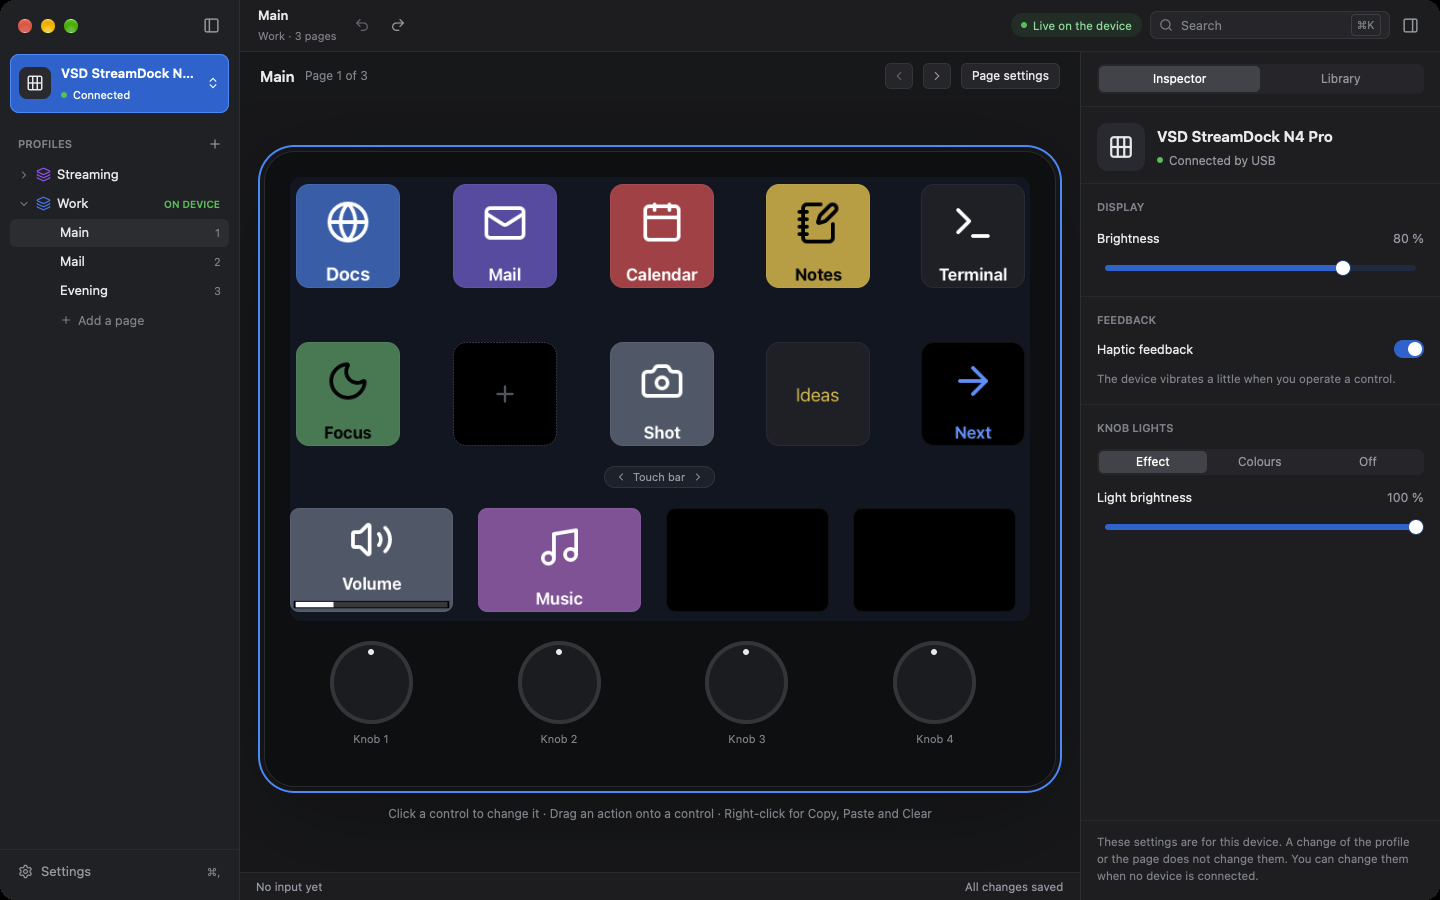
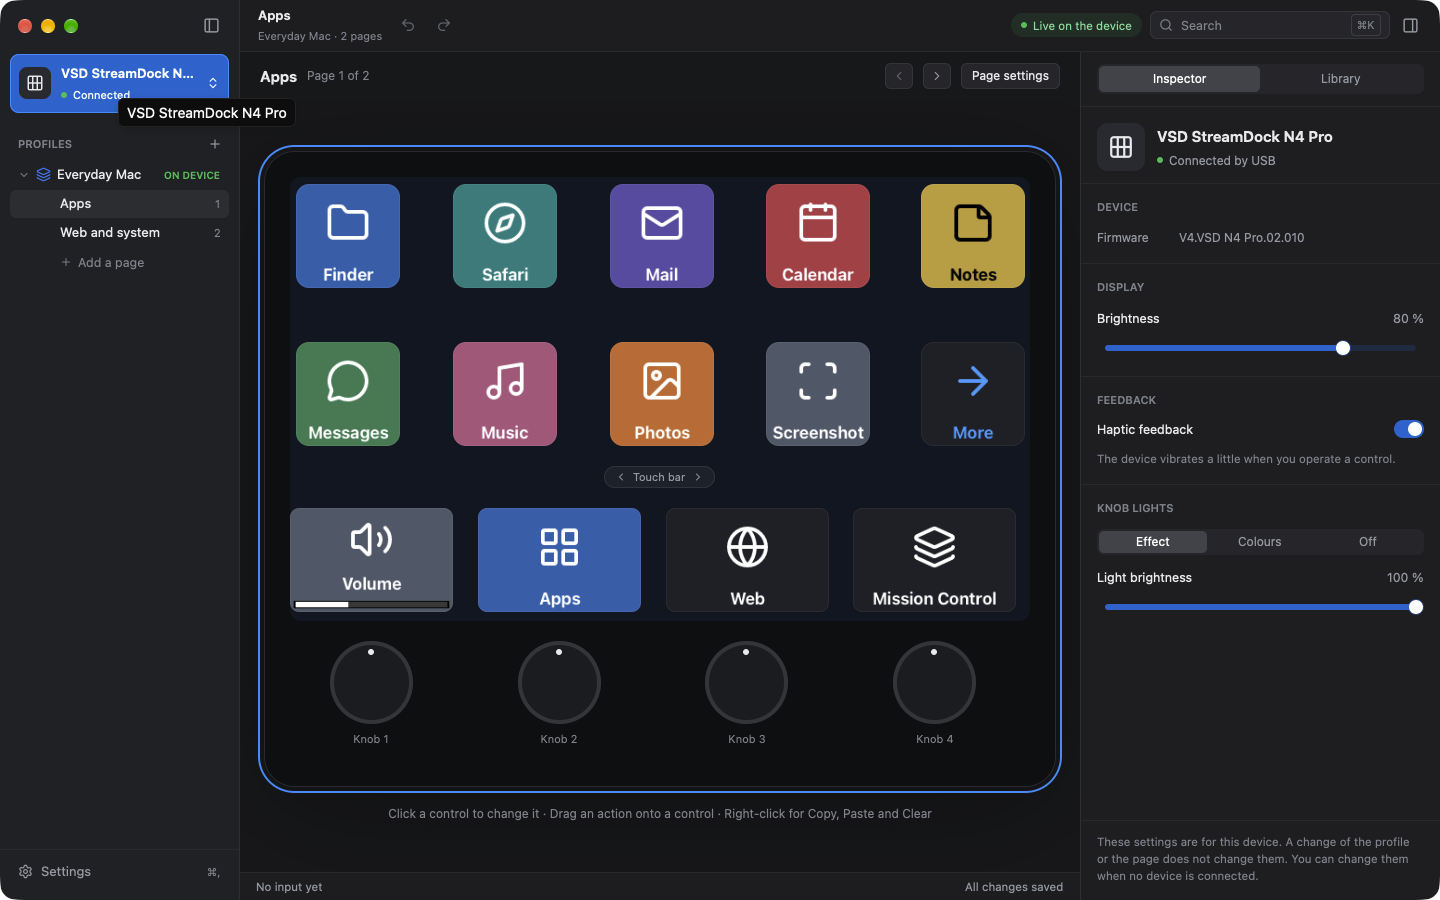
Show the connected device firmware in the inspector (#287)

diff --git a/crates/engine/tests/engine.rs b/crates/engine/tests/engine.rs
@@ -566,13 +566,27 @@ fn a_connection_gives_the_start_sequence_and_each_image() {
     rig.take_events();
     let device = rig.connect();
 
-    assert_eq!(rig.take_events(), [Event::Connected]);
+    assert_eq!(rig.take_events(), [Event::Firmware(None), Event::Connected]);
     assert_full_draw(&sent(&device));
 
     // After the draw, only the keep-alive goes to the device.
     rig.poll_for(Duration::from_secs(25));
     assert_eq!(sent(&device), [op("CONNECT"), op("CONNECT")]);
     assert!(rig.take_events().is_empty());
+}
+
+#[test]
+fn the_firmware_comes_from_the_feature_report_on_each_connection() {
+    let mut rig = Rig::new();
+    rig.take_events();
+    let fake = rig.plug();
+    // The fake selects report 1 by its first byte; the text follows it.
+    fake.borrow_mut().set_feature_report(b"\x01V2.3\0".to_vec());
+    rig.poll_for(Duration::from_secs(2));
+    assert_eq!(
+        rig.take_events(),
+        [Event::Firmware(Some("V2.3".into())), Event::Connected]
+    );
 }
 
 // --- Changes -------------------------------------------------------------------
@@ -720,7 +734,7 @@ fn after_a_disconnection_and_a_new_connection_the_device_shows_the_profile_again
     rig.take_events();
 
     let second = rig.connect();
-    assert_eq!(rig.take_events(), [Event::Connected]);
+    assert_eq!(rig.take_events(), [Event::Firmware(None), Event::Connected]);
     let sent = sent(&second);
     assert_full_draw(&sent);
     assert_color(&shown_at(&sent, KEY_3_SLOT), 2, 2, RED);
@@ -1161,7 +1175,10 @@ fn a_wake_gives_the_start_sequence_and_a_full_draw() {
     rig.engine.poll(POLL_INTERVAL);
 
     // The shell drops its input marks, and gets Connected after the draw.
-    assert_eq!(rig.take_events(), [Event::Disconnected, Event::Connected]);
+    assert_eq!(
+        rig.take_events(),
+        [Event::Disconnected, Event::Firmware(None), Event::Connected]
+    );
     let sent_after = sent(&device);
     assert_eq!(sent_after[0], op("CONNECT"), "the keep-alive first");
     assert_full_draw(&sent_after[1..]);
@@ -1230,7 +1247,10 @@ fn a_device_restart_some_seconds_after_the_wake_also_ends_in_a_full_draw() {
     let second = rig.plug();
     rig.poll_for(Duration::from_secs(2));
 
-    assert_eq!(rig.take_events(), [Event::Disconnected, Event::Connected]);
+    assert_eq!(
+        rig.take_events(),
+        [Event::Disconnected, Event::Firmware(None), Event::Connected]
+    );
     assert_full_draw(&sent(&second));
 }
 

diff --git a/crates/engine/src/engine.rs b/crates/engine/src/engine.rs
@@ -589,6 +589,9 @@ pub enum Event {
     /// possibly lost its images during the sleep, and an input event during
     /// the sleep, for example a release, is lost.
     Connected,
+    /// The firmware of the connected device, or `None` if its read failed.
+    /// Sent before `Connected`. This contains no device serial number.
+    Firmware(Option<String>),
     /// The device is gone, or the computer slept. The engine looks for the
     /// device again, or draws it again. See [`Event::Connected`].
     Disconnected,
@@ -2306,7 +2309,19 @@ impl<C: Connector, S: FnMut(Event), K: Clock> Engine<C, S, K> {
     /// draw lost the device, the link gives `Disconnected` next, and the
     /// shell gets no `Connected`.
     fn announce_connected(&mut self) {
+        let firmware = self
+            .link
+            .with_device(|device| device.firmware_version())
+            .ok()
+            .map(|version| {
+                version
+                    .chars()
+                    .filter(|c| !c.is_control())
+                    .collect::<String>()
+            })
+            .filter(|version| !version.trim().is_empty());
         if self.link.is_connected() {
+            (self.sink)(Event::Firmware(firmware));
             (self.sink)(Event::Connected);
         }
     }

diff --git a/crates/app/src/view/device_inspector.rs b/crates/app/src/view/device_inspector.rs
@@ -87,6 +87,28 @@ impl DeviceView {
             );
         };
         inspector
+            .child(
+                form::section("device-information", "Device", None).child(form::row(
+                    "Firmware",
+                    theme::FORM_LABEL_WIDE,
+                    theme::FORM_GAP,
+                    div()
+                        .id("device-firmware")
+                        .debug_selector(|| "device-firmware".into())
+                        .text_size(theme::TEXT_LABEL)
+                        .text_color(theme::TEXT_SECONDARY)
+                        .readable_text(format!(
+                            "Firmware: {}",
+                            self.state.firmware.as_deref().unwrap_or("Not available")
+                        ))
+                        .child(
+                            self.state
+                                .firmware
+                                .clone()
+                                .unwrap_or_else(|| "Not available".into()),
+                        ),
+                )),
+            )
             .children(
                 self.device
                     .brightness

diff --git a/crates/app/src/state.rs b/crates/app/src/state.rs
@@ -45,6 +45,8 @@ pub struct ViewState {
     pub layout: Option<Arc<DeviceLayout>>,
     pub surfaces: BTreeMap<SurfaceId, SurfaceState>,
     pub connected: bool,
+    /// Firmware of the current connection only. No device identity is kept.
+    pub firmware: Option<String>,
     pub selected: Option<SurfaceId>,
     pub selected_control: Option<ControlId>,
     /// True when the page is the selection (decision 0029, section 8.3).
@@ -146,9 +148,11 @@ impl ViewState {
                 self.surfaces.insert(surface.id, surface);
             }
             Event::Background(background) => self.background = background,
+            Event::Firmware(version) => self.firmware = version,
             Event::Connected => self.connected = true,
             Event::Disconnected => {
                 self.connected = false;
+                self.firmware = None;
                 self.clear_input();
             }
             // The same text shows one time. For example, each press of a key

diff --git a/crates/app/src/view/tests/device.rs b/crates/app/src/view/tests/device.rs
@@ -52,6 +52,20 @@ fn open(
     (view, cx, tx, sent)
 }
 
+#[gpui_kit::test]
+fn firmware_is_current_connection_data(cx: &mut TestAppContext) {
+    let (view, cx, tx, _) = open(cx, defaults());
+    send(cx, &tx, Event::Firmware(Some("V2.3".into())));
+    send(cx, &tx, Event::Connected);
+    assert!(cx.debug_bounds("device-firmware").is_some());
+    cx.update(|_, cx| assert_eq!(view.read(cx).state.firmware.as_deref(), Some("V2.3")));
+    send(cx, &tx, Event::Disconnected);
+    cx.update(|_, cx| assert!(view.read(cx).state.firmware.is_none()));
+    send(cx, &tx, Event::Firmware(None));
+    send(cx, &tx, Event::Connected);
+    cx.update(|_, cx| assert!(view.read(cx).state.firmware.is_none()));
+}
+
 /// Let the throttle time of the settings commands end.
 fn wait_interval(cx: &mut VisualTestContext) {
     cx.executor().advance_clock(SETTINGS_INTERVAL * 2);

diff --git a/crates/engine/tests/engine/profiles.rs b/crates/engine/tests/engine/profiles.rs
@@ -859,7 +859,8 @@ fn a_device_of_a_different_model_selects_the_profiles_of_that_model() {
     assert_eq!(binding_states(&events[18..19]), [key_3()]);
     assert!(matches!(events[19], Event::History { undo: None, .. }));
     assert!(matches!(events[20], Event::DeviceSettings(_)));
-    assert_eq!(events[21], Event::Connected);
+    assert_eq!(events[21], Event::Firmware(None));
+    assert_eq!(events[22], Event::Connected);
     assert_color(&shown_at(&sent(&device), KEY_3_SLOT), 2, 2, GREEN);
 }
 

diff --git a/crates/app/src/view/tests/accessibility.rs b/crates/app/src/view/tests/accessibility.rs
@@ -138,6 +138,7 @@ fn the_library_and_the_device_settings_have_labels(cx: &mut TestAppContext) {
     click(cx, "tab-inspector");
     let nodes = frame(cx);
     assert_has(&nodes, Role::Group, "Test device");
+    assert_has(&nodes, Role::Label, "Firmware: Not available");
     assert_has(&nodes, Role::Switch, "Haptic feedback");
     assert_has(&nodes, Role::RadioButton, "Colours");
     assert_has(&nodes, Role::Button, "Knob 1 light colour #FFFFFF");

diff --git a/crates/engine/tests/engine/test_model.rs b/crates/engine/tests/engine/test_model.rs
@@ -97,7 +97,7 @@ fn the_full_draw_has_the_settings_and_the_slots_of_the_test_model() {
     rig.set_color(face(2), RED);
     rig.take_events();
     let device = connect_test_model(&mut rig);
-    assert_eq!(rig.take_events(), [Event::Connected]);
+    assert_eq!(rig.take_events(), [Event::Firmware(None), Event::Connected]);
 
     let writes = device.borrow().writes().to_vec();
     assert!(writes.iter().all(|w| w.len() == 1 + TEST_MODEL.packet_size));

diff --git a/crates/engine/examples/headless.rs b/crates/engine/examples/headless.rs
@@ -92,6 +92,7 @@ fn main() {
             Event::Background(state) => {
                 println!("[{at:8.3}] background: {:?}", state.background)
             }
+            Event::Firmware(_) => {}
             Event::Connected => println!("[{at:8.3}] connected"),
             Event::Disconnected => println!("[{at:8.3}] disconnected"),
             Event::Input(input) => {

diff --git a/docs/decisions/0029-window-layout.md b/docs/decisions/0029-window-layout.md
@@ -971,8 +971,9 @@ image across the touch bar", "Knob light colours for this page".
 (`label`, `text-secondary`, a dot of 6): "Connected by USB" (`success` dot)
 or "Not connected" (`text-disabled` dot).
 
-The rows "Model" and "Firmware" of the wireframe are a LATER place. The
-engine does not send these values now.
+The "Device" section shows the firmware version from the engine. It shows
+"Not available" when no device is connected or the read failed. The model
+name stays in the header. No serial number is shown.
 
 The sections show only the settings that the model has
 ([decision 0022](0022-device-settings-and-stop-state.md#the-descriptor)).
@@ -1519,7 +1520,7 @@ screen.
 | Inspector | "Show the level on bar panel *N*" | A row in the "Turn" card |
 | Inspector | The settings forms of a plug-in | Gesture cards, from the settings description (section 22, rule 4) |
 | Inspector | "Use the same swipes on all pages of this profile"; "One image across the touch bar"; "Video" background | The page inspector. "Video" shows as a disabled segment now. |
-| Inspector | "Model" and "Firmware" rows; "Screen off after"; "Release the device to other software" | The device inspector |
+| Inspector | "Screen off after"; "Release the device to other software" | The device inspector |
 | Inspector | A "Wait" step | The kind menu of a step list |
 | Library | Filters "Icons", "Backgrounds", "Starter pages"; icon packs; video backgrounds | The chip row (section 11) |
 | Library | "Open a folder", "Wait"; a group for each plug-in, with "Browse plug-ins…" | Rows and groups (section 11) |

diff --git a/docs/user/controls.md b/docs/user/controls.md
@@ -332,7 +332,11 @@ profile or of the page does not change them.
 
 ![The device settings](images/device-settings.png)
 
-The inspector has a header and three sections. The header shows the model of
+The **Device** section shows the firmware version. It shows "Not available"
+when no device is connected or the version cannot be read. No serial number
+is shown.
+
+The inspector has a header and the settings sections. The header shows the model of
 the device and "Connected by USB" or "Not connected". A device model that
 does not have a setting does not show the section of that setting. The
 arrows at the right of the device in the sidebar open the list of the
